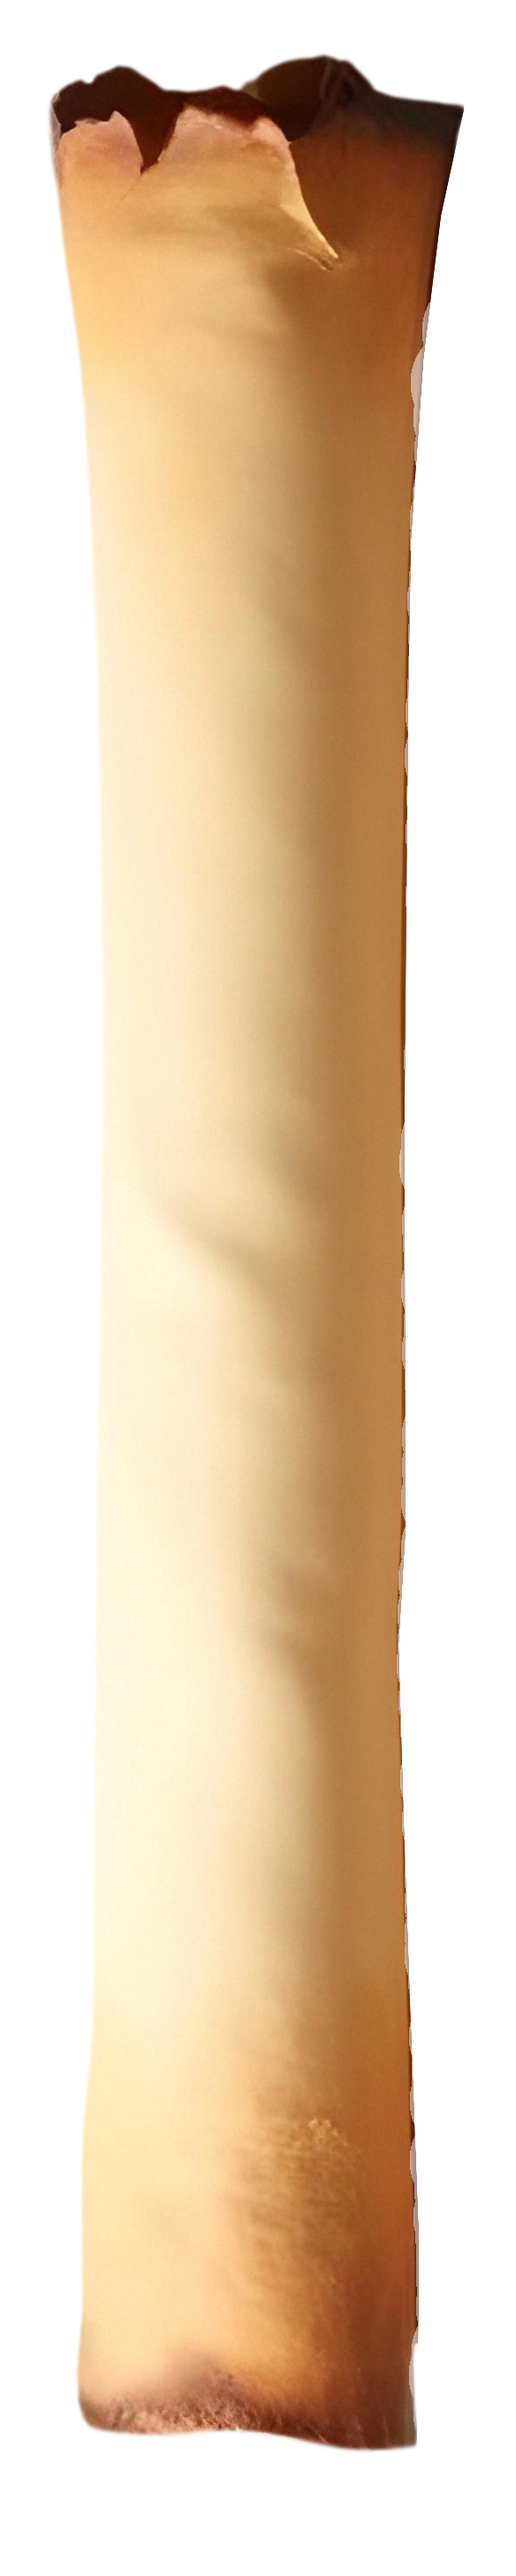
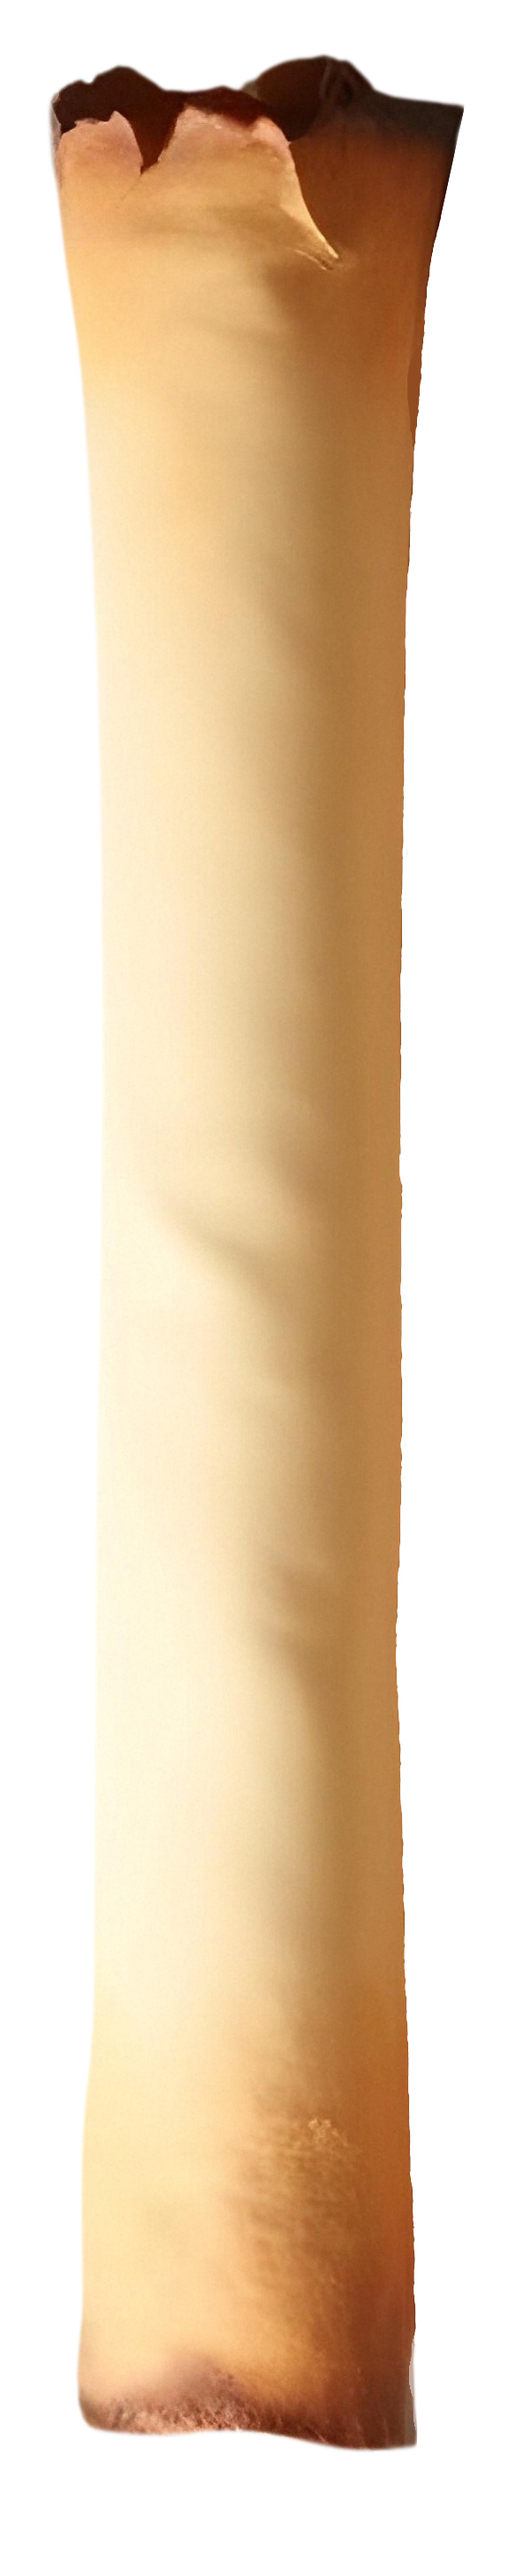
fixed roll :D

Changed region(s): [[0.7705, 0.1874, 0.8322, 0.9059], [0.8014, 0.0937, 0.863, 0.1874]]

diff --git a/js/contact.js b/js/contact.js
@@ -1,92 +1,99 @@
 document.addEventListener('DOMContentLoaded', () => {
-    const rollButton = document.getElementById('rollButton');
-    const scrollElement = document.querySelector('.contact .scroll');
-    const leftRollElement = document.querySelector('.contact .left-roll'); // Now a sibling
+    const rollButton = document.querySelector('.roll-btn'); // Ensure this class matches your button
+    const scrollElement = document.querySelector('.scroll');
+    const leftRollElement = document.querySelector('.left-roll');
 
     if (!scrollElement || !leftRollElement || !rollButton) {
         console.error('Required elements not found!');
         return;
     }
 
+    const ROLL_WIDTH_PERCENTAGE = 0.15;
     let animationFrameId = null;
-    let isRolled = false; // To toggle state
+    let isRolled = false; // True if the parchment is currently in the "rolled up" state
 
-    // Function to position and size the left-roll element based on the scroll element
-    function updateLeftRollAppearance() {
-        const scrollRect = scrollElement.getBoundingClientRect(); // Gets dimensions and position relative to viewport
-        const contactRect = scrollElement.parentElement.getBoundingClientRect(); // .contact
+    // Function to set the .left-roll's position and size based on .scroll's current state
+    // and whether it's supposed to be rolled or unrolled.
+    function syncLeftRollToScrollState() {
+        const scrollRect = scrollElement.getBoundingClientRect();
+        // Parent for relative positioning (e.g., .contact)
+        const contactRect = scrollElement.parentElement.getBoundingClientRect();
 
-        // Calculate top and left relative to the .contact parent
-        const scrollOffsetTop = scrollRect.top - contactRect.top;
-        const scrollOffsetLeft = scrollRect.left - contactRect.left;
-        
-        const scrollCurrentWidth = scrollElement.offsetWidth; // scrollRect.width is also fine
-        const scrollCurrentHeight = scrollElement.offsetHeight; // scrollRect.height
+        const relativeScrollTop = scrollRect.top - contactRect.top;
+        const relativeScrollLeft = scrollRect.left - contactRect.left;
 
-        leftRollElement.style.top = `${scrollOffsetTop}px`;
-        leftRollElement.style.height = `${scrollCurrentHeight}px`;
-        // The roll's width is a percentage of the scroll's width (e.g., 15%)
-        const rollWidthPercentage = 0.15; // Assuming 15%
-        const currentRollWidth = scrollCurrentWidth * rollWidthPercentage;
-        leftRollElement.style.width = `${currentRollWidth}px`;
+        leftRollElement.style.top = `${relativeScrollTop}px`;
+        leftRollElement.style.height = `${scrollRect.height}px`;
+
+        const calculatedRollWidth = scrollRect.width * ROLL_WIDTH_PERCENTAGE;
+        leftRollElement.style.width = `${calculatedRollWidth}px`;
 
         if (isRolled) {
-            // If rolled, position it at the right edge of where the scroll was
-            leftRollElement.style.left = `${scrollOffsetLeft + scrollCurrentWidth - currentRollWidth}px`;
+            // Position for "rolled up" state: right edge of roll aligns with right edge of scroll
+            leftRollElement.style.left = `${relativeScrollLeft + scrollRect.width - calculatedRollWidth}px`;
         } else {
-            // If not rolled (or unrolled), position it at the left edge
-            leftRollElement.style.left = `${scrollOffsetLeft}px`;
+            // Position for "unrolled" state: left edge of roll aligns with left edge of scroll
+            leftRollElement.style.left = `${relativeScrollLeft}px`;
         }
     }
 
-    // Initial setup
-    updateLeftRollAppearance();
+    // Initial setup: parchment is unrolled
+    isRolled = false;
+    syncLeftRollToScrollState();
 
-    // Update on window resize
     window.addEventListener('resize', () => {
         if (!animationFrameId) { // Only update if not currently animating
-            updateLeftRollAppearance();
+            syncLeftRollToScrollState(); // Re-sync based on current isRolled state
         }
     });
 
-    function animateRoll(timestamp, startParams) {
+    function animateRoll(timestamp, animParams) {
         const {
             startTime,
-            startRollLeft, startClipLeft,
-            targetRollLeft, targetClipLeft,
-            duration
-        } = startParams;
+            startRollLeft, targetRollLeft, // For .left-roll's 'left'
+            startClipLeft, targetClipLeft, // For .scroll's clip-path
+            duration,
+            // Parameters for the precise final state after this animation segment finishes
+            finalParchmentIsRolled, // The state of `isRolled` AFTER this animation
+            finalRollElementLeft, finalRollElementTop,
+            finalRollElementWidth, finalRollElementHeight,
+            finalScrollClipLeft
+        } = animParams;
 
         const elapsedTime = timestamp - startTime;
         const progress = Math.min(elapsedTime / duration, 1);
 
+        // Interpolate .left-roll's 'left' position
         const currentRollLeft = startRollLeft + (targetRollLeft - startRollLeft) * progress;
-        const currentClipLeft = startClipLeft + (targetClipLeft - startClipLeft) * progress;
-
         leftRollElement.style.left = `${currentRollLeft}px`;
+
+        // Interpolate .scroll's clip-path
+        const currentClipLeft = startClipLeft + (targetClipLeft - startClipLeft) * progress;
         scrollElement.style.clipPath = `inset(0 0 0 ${currentClipLeft}px)`;
 
-        // Fade out content within .scroll
+        // Fade content: if rolling up (targetClipLeft > startClipLeft), fade out (1 to 0)
+        // if unrolling (targetClipLeft < startClipLeft), fade in (0 to 1)
         const scrollContent = scrollElement.querySelectorAll('h2, .form-container');
-        scrollContent.forEach(content => {
-            content.style.opacity = 1 - progress;
-        });
+        const opacityProgress = (targetClipLeft > startClipLeft) ? (1 - progress) : progress;
+        scrollContent.forEach(content => content.style.opacity = opacityProgress);
 
         if (progress < 1) {
-            animationFrameId = requestAnimationFrame(newTime => animateRoll(newTime, startParams));
-        } else {
+            animationFrameId = requestAnimationFrame(newTime => animateRoll(newTime, animParams));
+        } else { // Animation finished
             animationFrameId = null;
+            isRolled = finalParchmentIsRolled; // Update the global state
+
+            // Apply the pre-calculated final state precisely
+            leftRollElement.style.left = `${finalRollElementLeft}px`;
+            leftRollElement.style.top = `${finalRollElementTop}px`;
+            leftRollElement.style.width = `${finalRollElementWidth}px`;
+            leftRollElement.style.height = `${finalRollElementHeight}px`;
+            scrollElement.style.clipPath = `inset(0 0 0 ${finalScrollClipLeft}px)`;
+
+            // Ensure content opacity is at its final value
+            scrollContent.forEach(content => content.style.opacity = finalParchmentIsRolled ? 0 : 1);
+
             rollButton.textContent = isRolled ? "Reset Parchment" : "Roll Parchment";
-            // Ensure final states
-            if (isRolled) {
-                scrollContent.forEach(content => content.style.opacity = 0);
-                leftRollElement.style.left = `${targetRollLeft}px`; // Ensure precise final position
-                scrollElement.style.clipPath = `inset(0 0 0 ${targetClipLeft}px)`;
-            } else {
-                scrollContent.forEach(content => content.style.opacity = 1);
-                // On unroll, updateLeftRollAppearance will set the correct left for the roll.
-                updateLeftRollAppearance(); // Make sure it's perfectly aligned
-            }
         }
     }
 
@@ -94,50 +101,74 @@ document.addEventListener('DOMContentLoaded', () => {
         if (animationFrameId) {
             cancelAnimationFrame(animationFrameId);
             animationFrameId = null;
+            // If animation was interrupted, the `isRolled` state might be out of sync
+            // with the visual. Call sync to fix visual based on last `isRolled` state.
+            syncLeftRollToScrollState();
         }
 
-        // Ensure current appearance is correct before calculating animation parameters
-        updateLeftRollAppearance();
+        // Get current dimensions and positions using getBoundingClientRect for precision
+        const scrollRect = scrollElement.getBoundingClientRect();
+        const contactRect = scrollElement.parentElement.getBoundingClientRect(); // Parent (e.g., .contact)
 
-        const scrollWidth = scrollElement.offsetWidth;
-        const scrollOffsetLeft = scrollElement.offsetLeft; // Left of .scroll relative to .contact
-        const rollWidth = leftRollElement.offsetWidth;   // Actual current width of the roll
+        const currentRelativeScrollTop = scrollRect.top - contactRect.top;
+        const currentRelativeScrollLeft = scrollRect.left - contactRect.left;
+        const currentScrollWidth = scrollRect.width;
+        const currentScrollHeight = scrollRect.height;
 
-        const animationDuration = 1500; // milliseconds
-        let startParams;
+        const calculatedRollWidth = currentScrollWidth * ROLL_WIDTH_PERCENTAGE;
 
-        if (!isRolled) { // === Action: Roll it up ===
-            startParams = {
+        let animParams = {};
+        const animationDuration = 1600;
+
+        if (!isRolled) { // === Current state: UNROLLED. Action: ROLL IT UP ===
+            // Start animation from current visual state of .left-roll
+            const animStartRollLeft = currentRelativeScrollLeft; // Left edge of scroll
+            // Target state for .left-roll
+            const animTargetRollLeft = currentRelativeScrollLeft + currentScrollWidth - calculatedRollWidth;
+
+            animParams = {
                 startTime: performance.now(),
-                startRollLeft: scrollOffsetLeft, // Starts at the left edge of scroll
-                startClipLeft: 0,               // Scroll is initially not clipped
-                targetRollLeft: scrollOffsetLeft + scrollWidth - rollWidth, // Roll ends at right edge of scroll
-                targetClipLeft: scrollWidth,    // Scroll is fully clipped from the left
-                duration: animationDuration
+                startRollLeft: animStartRollLeft,
+                targetRollLeft: animTargetRollLeft,
+                startClipLeft: 100,                       // Scroll starts unclipped
+                targetClipLeft: currentScrollWidth - 100,     // Scroll ends fully clipped from left
+
+                duration: animationDuration,
+
+                finalParchmentIsRolled: true, // State AFTER this animation
+                finalRollElementLeft: animTargetRollLeft, // .left-roll's final 'left'
+                finalRollElementTop: currentRelativeScrollTop,
+                finalRollElementWidth: calculatedRollWidth,
+                finalRollElementHeight: currentScrollHeight,
+                finalScrollClipLeft: currentScrollWidth
             };
-            isRolled = true;
             rollButton.textContent = "Rolling...";
-        } else { // === Action: Unroll it ===
-            // Current position of the roll (should be at the right edge)
-            const currentActualRollLeft = parseFloat(leftRollElement.style.left);
-            // Current clip of the scroll (should be fully clipped)
-            const currentActualClipLeft = scrollWidth; // Assuming it was fully clipped
+            // Note: isRolled is updated *after* animation in this model
+        } else { // === Current state: ROLLED. Action: UNROLL IT ===
+            // Start animation from current visual state of .left-roll
+            const animStartRollLeft = currentRelativeScrollLeft + currentScrollWidth - calculatedRollWidth;
+            // Target state for .left-roll
+            const animTargetRollLeft = currentRelativeScrollLeft; // Back to left edge of scroll
 
-            startParams = {
+            animParams = {
                 startTime: performance.now(),
-                startRollLeft: currentActualRollLeft,
-                startClipLeft: currentActualClipLeft,
-                targetRollLeft: scrollOffsetLeft, // Roll returns to left edge of scroll
-                targetClipLeft: 0,               // Scroll becomes fully unclipped
-                duration: animationDuration
+                startRollLeft: animStartRollLeft,
+                targetRollLeft: animTargetRollLeft,
+                startClipLeft: currentScrollWidth - 100,      // Scroll starts fully clipped
+                targetClipLeft: 100,                      // Scroll ends unclipped
+
+                duration: animationDuration,
+
+                finalParchmentIsRolled: false, // State AFTER this animation
+                finalRollElementLeft: animTargetRollLeft,
+                finalRollElementTop: currentRelativeScrollTop,
+                finalRollElementWidth: calculatedRollWidth,
+                finalRollElementHeight: currentScrollHeight,
+                finalScrollClipLeft: 0
             };
-            isRolled = false;
             rollButton.textContent = "Unrolling...";
-            // Make scroll content visible immediately for unroll
-            const scrollContent = scrollElement.querySelectorAll('h2, .form-container');
-            scrollContent.forEach(content => content.style.opacity = 1); // Start making visible
         }
 
-        animationFrameId = requestAnimationFrame(timestamp => animateRoll(timestamp, startParams));
+        animationFrameId = requestAnimationFrame(timestamp => animateRoll(timestamp, animParams));
     });
 });

diff --git a/contact.html b/contact.html
@@ -42,27 +42,15 @@
     </header>
     <main>
       <section class="contact">
-        <!-- THIS BUTTON IS THE TRIGGER -->
-        <button
-          id="rollButton"
-          style="
-            position: absolute;
-            top: 10px;
-            left: 10px;
-            z-index: 100;
-            padding: 10px;
-            cursor: pointer;
-          "
-        >
-          Roll Parchment
-        </button>
+        <!-- THIS BUTTON IS TEMPORARY, WILL BE REPLACED WITH THE SUBMIT BUTTON -->
+        <button id="rollButton" class="roll-btn">Roll Parchment</button>
         <div class="scroll-container">
           <div class="scroll">
-          <h2>Formulaire de contact</h2>
+            <h2>Formulaire de contact</h2>
 
-          <div class="form-container"></div>
-        </div>
-        <div class="left-roll"></div>
+            <div class="form-container"></div>
+          </div>
+          <div class="left-roll"></div>
         </div>
       </section>
     </main>

diff --git a/css/contact.css b/css/contact.css
@@ -23,7 +23,7 @@ main {
       width: 100%;
       height: 100%;
       background-color: transparent;
-      background-image: url("../imgs/contact/rolled-parchment-paper.png");
+      background-image: url("../imgs/contact/rolled-parchment-paper-right-part.png");
       background-size: 100% 100%;
       display: flex;
       /*  */
@@ -64,6 +64,15 @@ main {
       background-size: 100% 100%;
       z-index: 10; /* Must be on top of the .scroll content it's hiding */
       /* transition: left 0.5s ease-out; Optional: for smoother programmatic changes if not using rAF */
+    }
+    /* Temp button for tests */
+    .roll-btn {
+      position: absolute;
+      top: 10px;
+      left: 10px;
+      z-index: 100;
+      padding: 10px;
+      cursor: pointer;
     }
   }
 }
